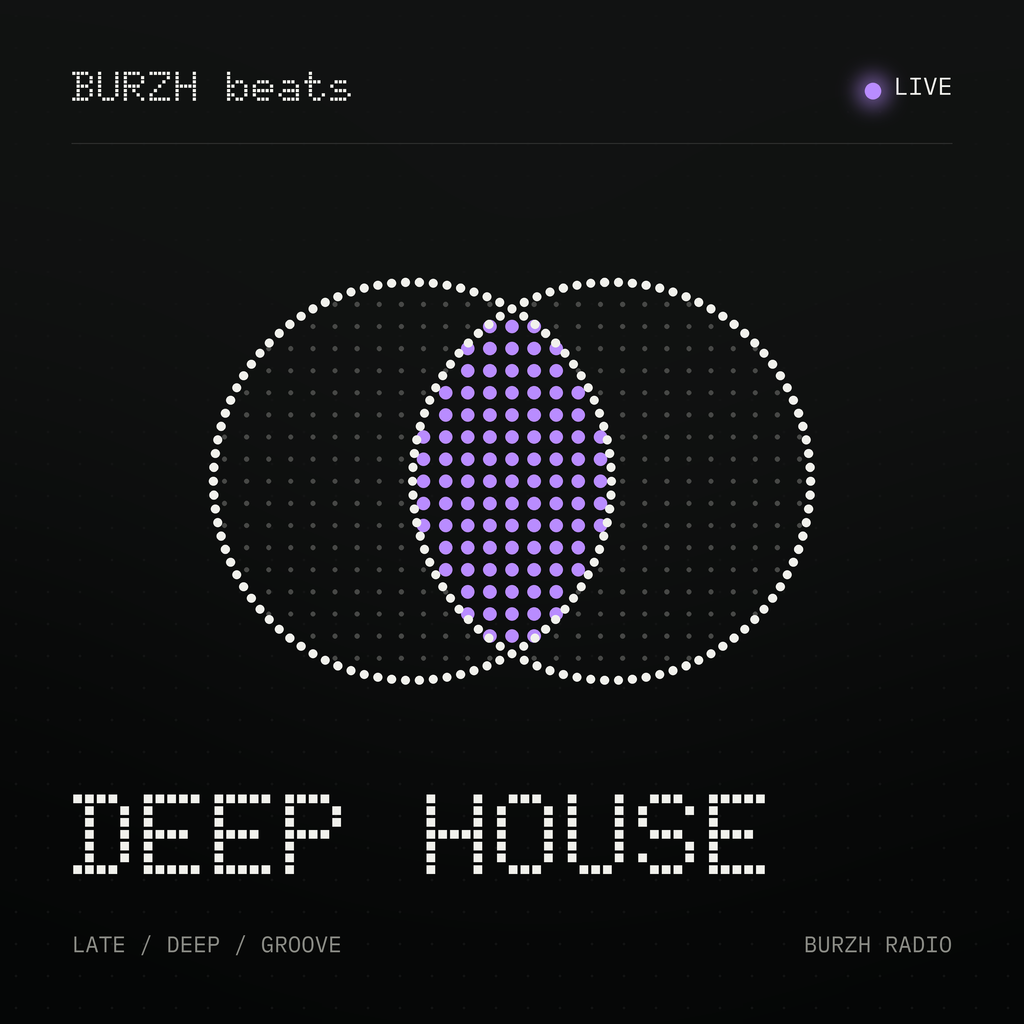
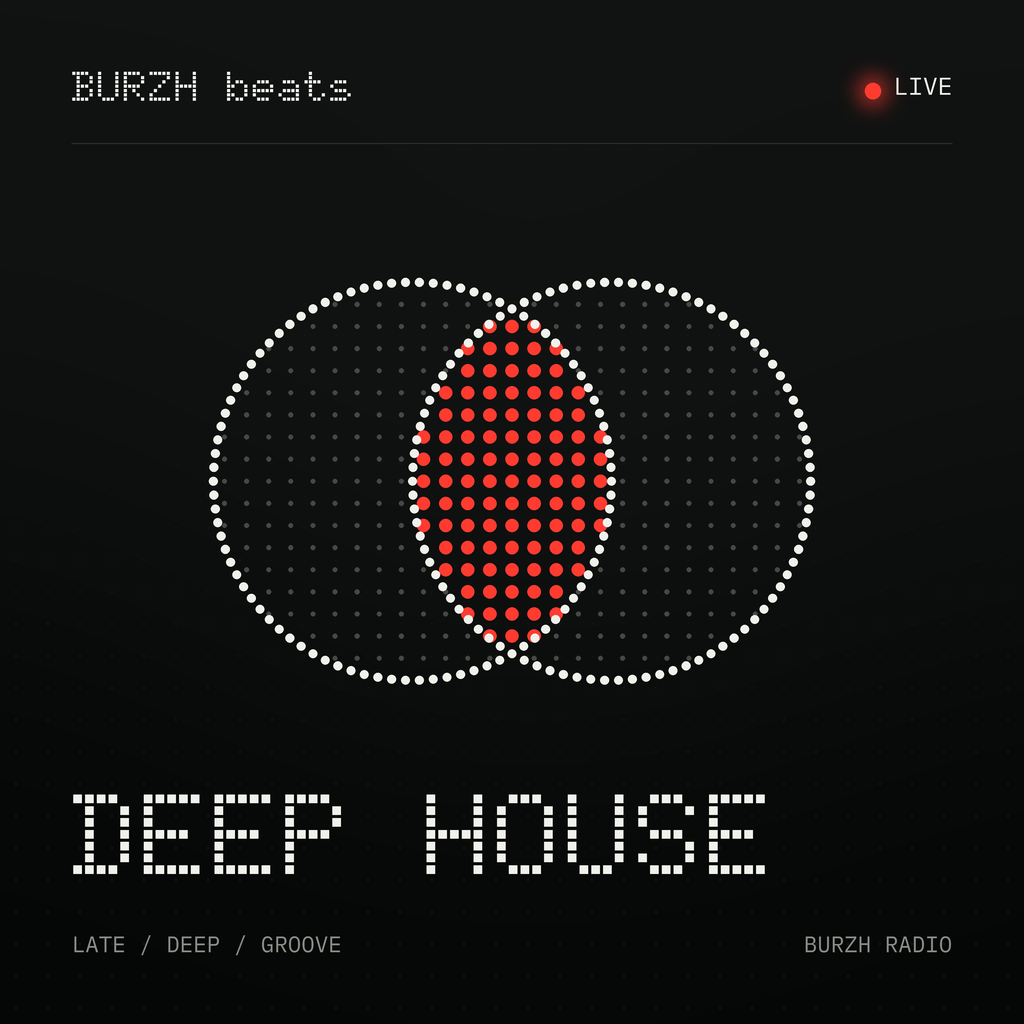
Restore monochrome + red palette; night mode only dims
Night mode recoloured the whole screen red after 23:00 by default, and
stations had their own accent colours. Back to the original single red
accent everywhere; night mode keeps the palette, just dimmed, and is off
unless chosen (existing saved 'auto' is reset once).

Claude-Session: https://claude.ai/code/session_01H3qVU92jGBwZSYhN71Ww95

Changed region(s): [[0.4062, 0.3125, 0.5938, 0.625], [0.8125, 0.0625, 0.875, 0.125]]

diff --git a/docs/index.html b/docs/index.html
@@ -191,7 +191,7 @@ button,input{font:inherit;color:inherit}button{background:none;border:0;padding:
 
 /* ---------- Night mode: dim red monochrome, pure black (OLED friendly) ---------- */
 html.night,html.night body{--bg:#000;background:#000}
-html.night .screen{background:#000;filter:url(#night-red)}
+html.night .screen{background:#000;filter:brightness(.42)}
 html.night .art-frame{box-shadow:none}
 
 /* ---------- Graphite theme ---------- */
@@ -227,12 +227,6 @@ html.theme-graphite:not(.night) .screen{background:radial-gradient(120% 120% at 
 </head>
 <body>
 
-<!-- Night mode: maps everything to dim red by luminance (keeps dark adaptation, easy on OLED). -->
-<svg width="0" height="0" style="position:absolute" aria-hidden="true" focusable="false">
-  <filter id="night-red" color-interpolation-filters="sRGB">
-    <feColorMatrix type="matrix" values="0.15 0.5 0.05 0 0  0.012 0.04 0.004 0 0  0.008 0.026 0.003 0 0  0 0 0 1 0"/>
-  </filter>
-</svg>
 
 <section class="screen portrait" aria-label="BURZH beats radio">
   <div class="p-logo">BURZH<br>beats</div>
@@ -322,7 +316,7 @@ html.theme-graphite:not(.night) .screen{background:radial-gradient(120% 120% at 
       </div>
       <div class="settings-row">
         <div><div class="settings-label">Night mode</div><div class="settings-value">Dim red display · auto 23:00–07:00</div></div>
-        <button class="pill" id="nightBtn">AUTO</button>
+        <button class="pill" id="nightBtn">OFF</button>
       </div>
       <div class="settings-row">
         <div><div class="settings-label">Style</div><div class="settings-value">Background</div></div>

diff --git a/docs/app.js b/docs/app.js
@@ -9,7 +9,7 @@
 (() => {
   'use strict';
 
-  const VERSION = '0.20.0';
+  const VERSION = '0.20.1';
   const DATA_URL = './stations.json';
   const KEYS = {
     station: 'burzh.radio.station.v1',
@@ -28,9 +28,12 @@
     set(key, value) { try { localStorage.setItem(key, JSON.stringify(value)); } catch (e) { /* private mode */ } }
   };
 
+  const storedSettings = store.get(KEYS.settings, {});
+  // v2: night mode no longer recolours the screen and is off unless chosen.
+  if (storedSettings.v !== 2) { delete storedSettings.night; storedSettings.v = 2; }
   const settings = Object.assign(
-    { keepAwake: true, night: 'auto', theme: 'black', weather: false, city: null },
-    store.get(KEYS.settings, {})
+    { v: 2, keepAwake: true, night: 'off', theme: 'black', weather: false, city: null },
+    storedSettings
   );
   const saveSettings = () => store.set(KEYS.settings, settings);
 

diff --git a/docs/sw.js b/docs/sw.js
@@ -5,7 +5,7 @@
  * - Audio and range requests: never touched, Safari streams them natively
  *   (needed for seeking, background audio and the lock screen).
  */
-const CACHE = 'burzh-radio-v20';
+const CACHE = 'burzh-radio-v21';
 const SHELL = [
   './',
   './index.html',

diff --git a/README.md b/README.md
@@ -27,7 +27,7 @@
 - Большие часы, дата, станция, трек, обложка, погода.
 - Через 8 секунд без касаний кнопки и меню исчезают; первое касание только будит экран.
 - Экран не гаснет в альбомной ориентации (Screen Wake Lock, iOS 18.4+; выключается в настройках).
-- Ночной режим: после 23:00 всё становится тусклым красным на чистом чёрном (AUTO / ON / OFF).
+- Ночной режим: та же палитра, только приглушённая, на чистом чёрном. По умолчанию выключен; AUTO — с 23:00 до 7:00.
 - Защита OLED от выгорания: раз в минуту картинка смещается на несколько пикселей.
 - Погода: Open-Meteo, без ключей и без доступа к геолокации — город вводится в настройках.
 
